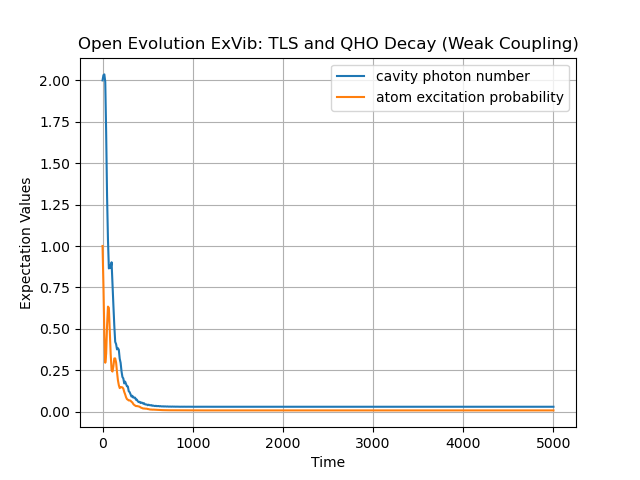
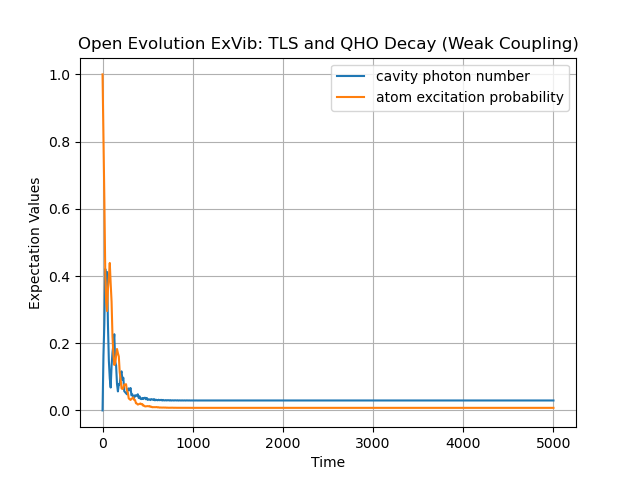
Corrects photon number choice, and increases time to see envelope oscillations in the Exciton-Vibrational system.

diff --git a/Research Project/Code/ExVib_Closed.py b/Research Project/Code/ExVib_Closed.py
@@ -11,7 +11,7 @@ import math
 # g = (0.0578)^0.5 = 267 cm^-1
 # Moreover, T ~ 300K room temp expt.
 
-tlist = np.linspace(0.0, 500.0, 2000)  # units of 1/hbar omega
+tlist = np.linspace(0.0, 5000.0, 2000)  # units of 1/hbar omega
 
 # constants, cm^-1
 w = 1.0
@@ -22,10 +22,11 @@ g = math.sqrt(
     0.0578
 )  # weak regime, g < gamma, gamma_th AND g << w (zeta = 0.01, C = 1)
 N = 30  # num Fock states
-n = 2  # photon number
+n = 0  # photon number
 
 # Bases
 basis_atom_e = q.basis(2, 0)
+basis_atom_g = q.basis(2, 1)
 basis_qho = q.basis(N, n)
 
 

diff --git a/Research Project/Code/ExVib_Open.py b/Research Project/Code/ExVib_Open.py
@@ -22,7 +22,7 @@ g = math.sqrt(
     0.0578
 )  # weak regime, g < gamma, gamma_th AND g << w (zeta = 0.01, C = 1)
 N = 30  # num Fock states
-n = 2  # photon number
+n = 0  # photon number
 
 # Bases
 basis_atom_e = q.basis(2, 0)
